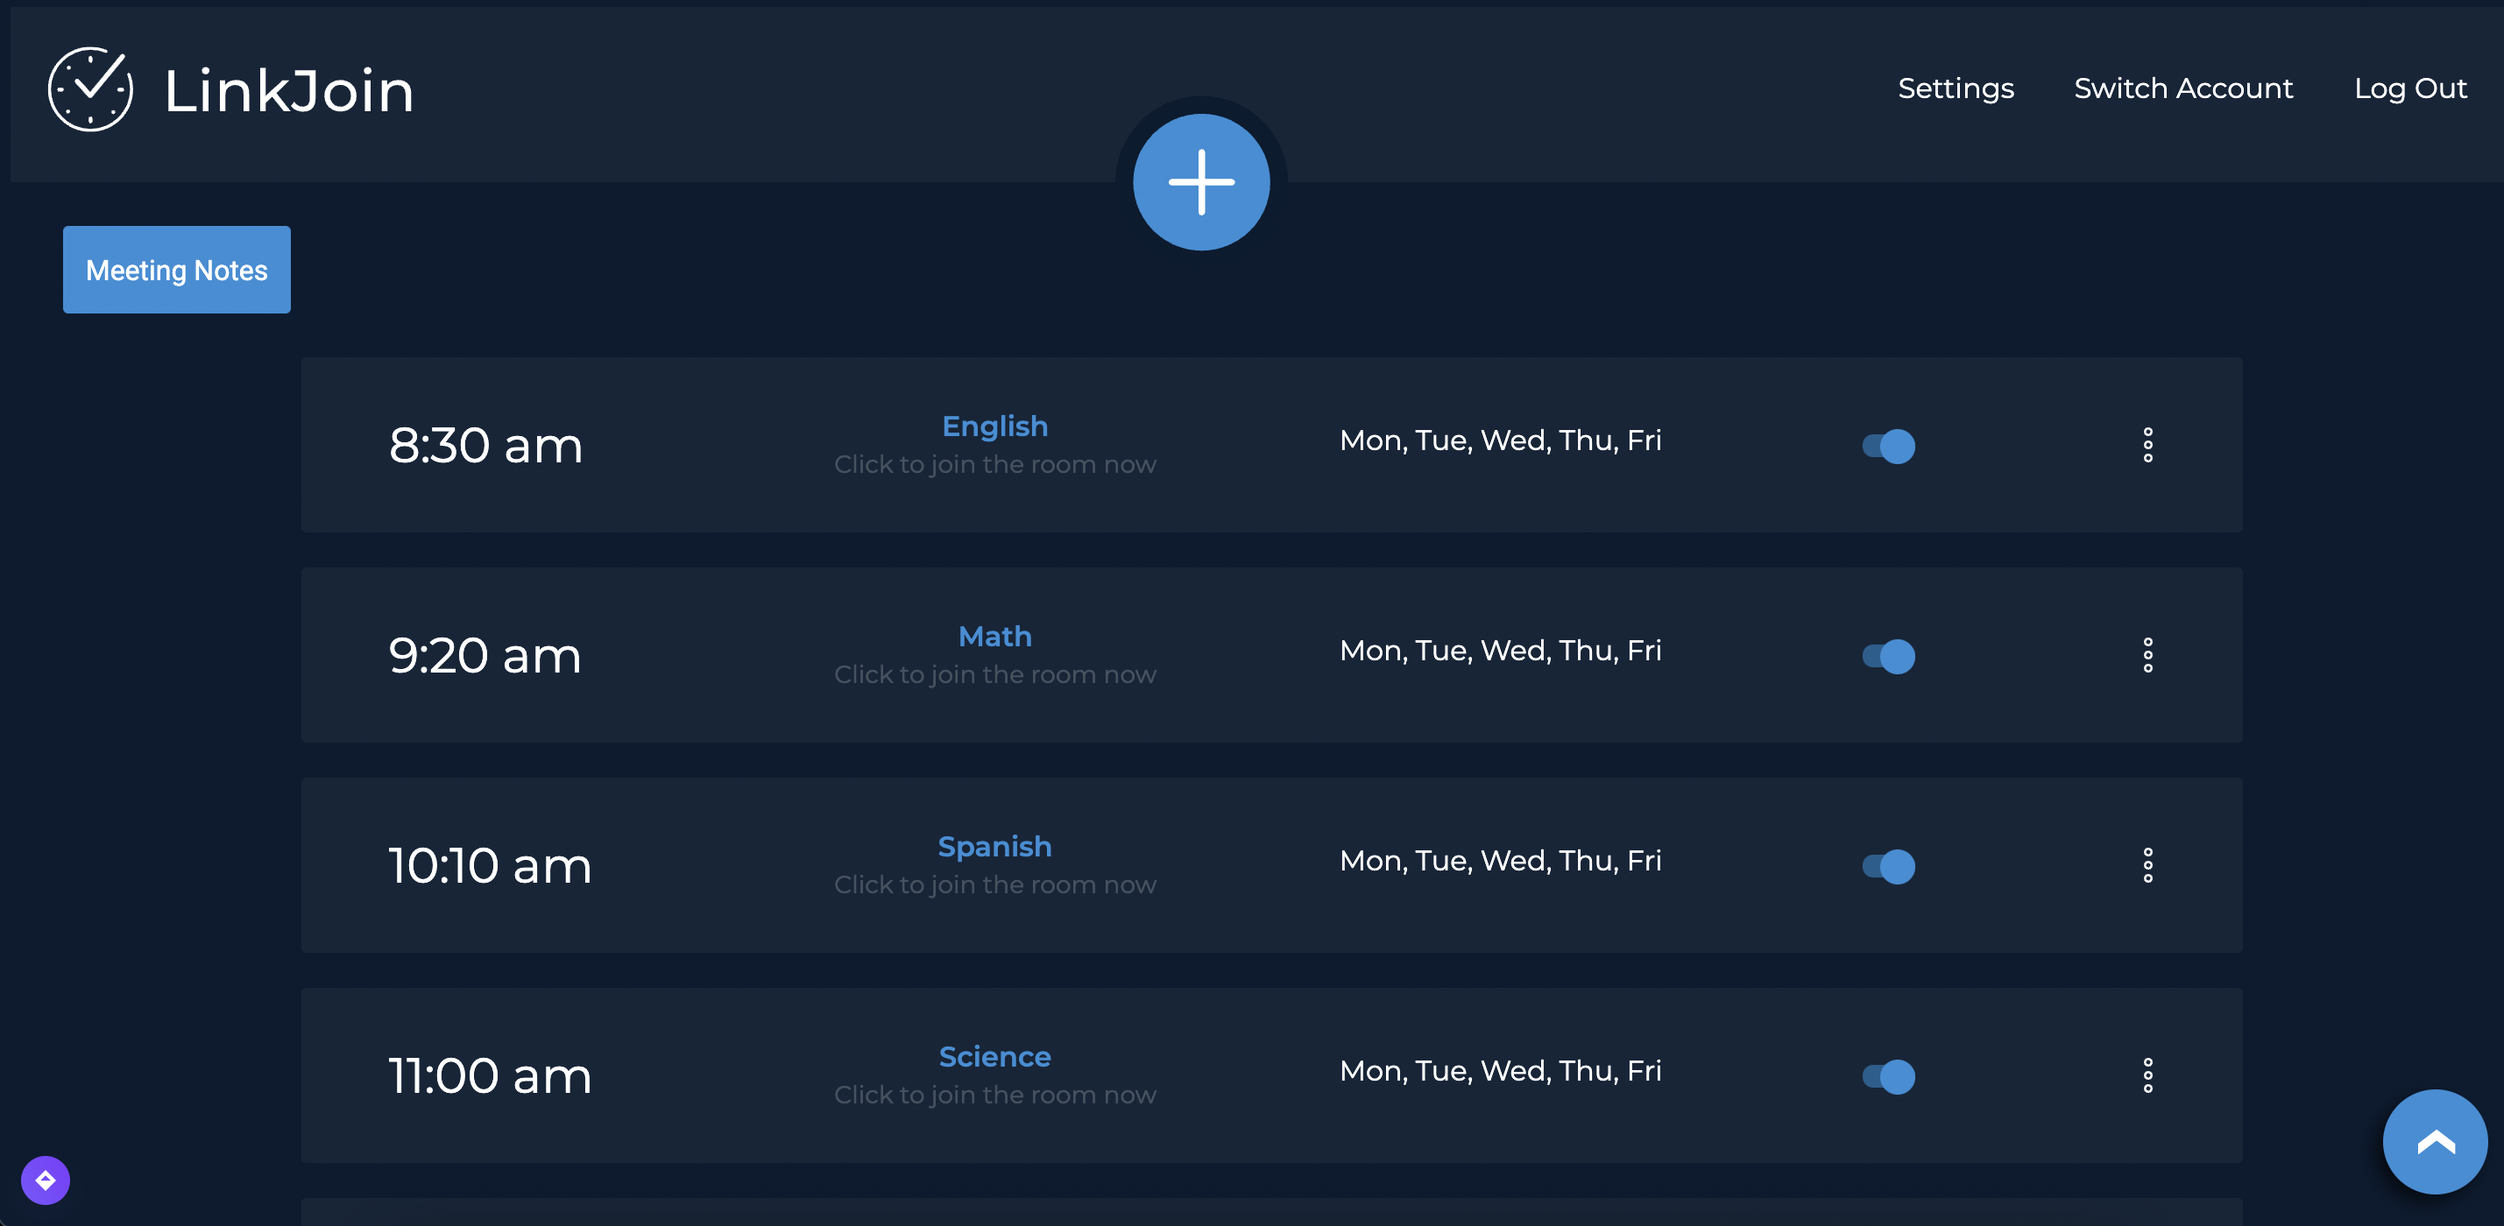
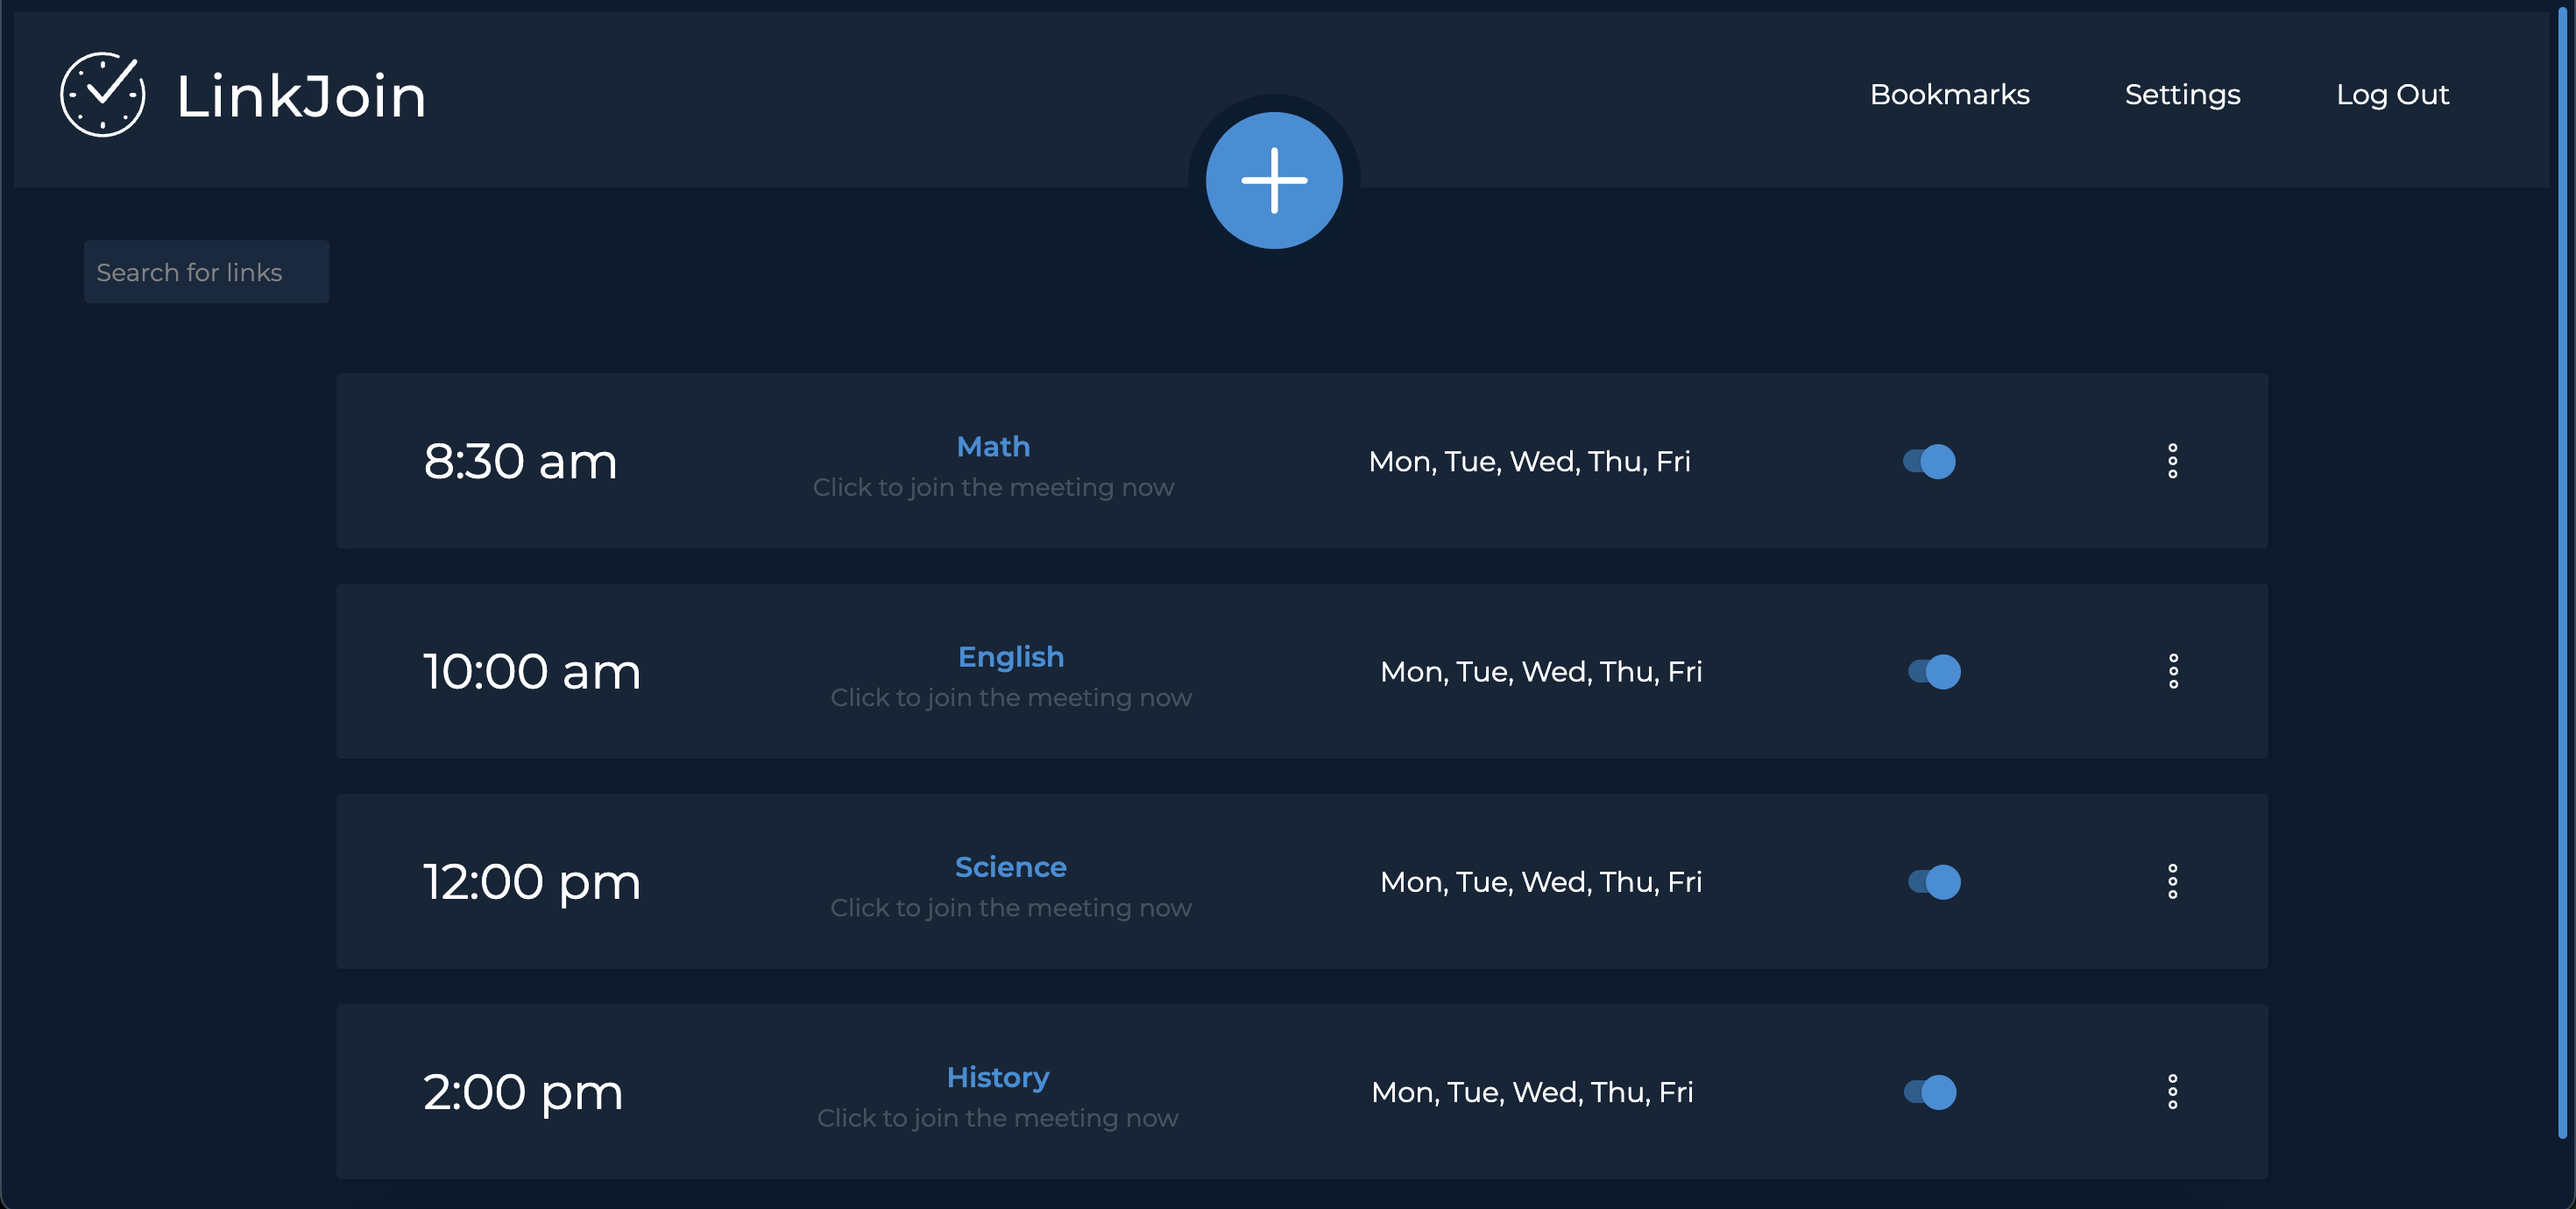
Update README.md

diff --git a/README.md b/README.md
@@ -6,7 +6,7 @@
 With virtual meetings in the comfort of your own home, it becomes difficult to remember to click a link to join a meeting.
 LinkJoin organizes meeting links all in one place, and automatically opens them at the right time.
 LinkJoin also has a space to take notes on individual meetings, so it's easier to keep track of materials from meeting to meeting.
-Pre-scheduled meetings can be shared from person to person via a share link. 
-A user clicks the link, and the meeting is added to their LinkJoin.
-
+Pre-scheduled meetings can be shared from person to person via LinkJoin Sharing. 
+Non-meeting links can be saved via LinkJoin Bookmarks.
+With the LinkJoin Chrome Extension, Bookmarks can be added from any page with just a click.
 ![Links page](static/images/linkjoin-links-page.png)
